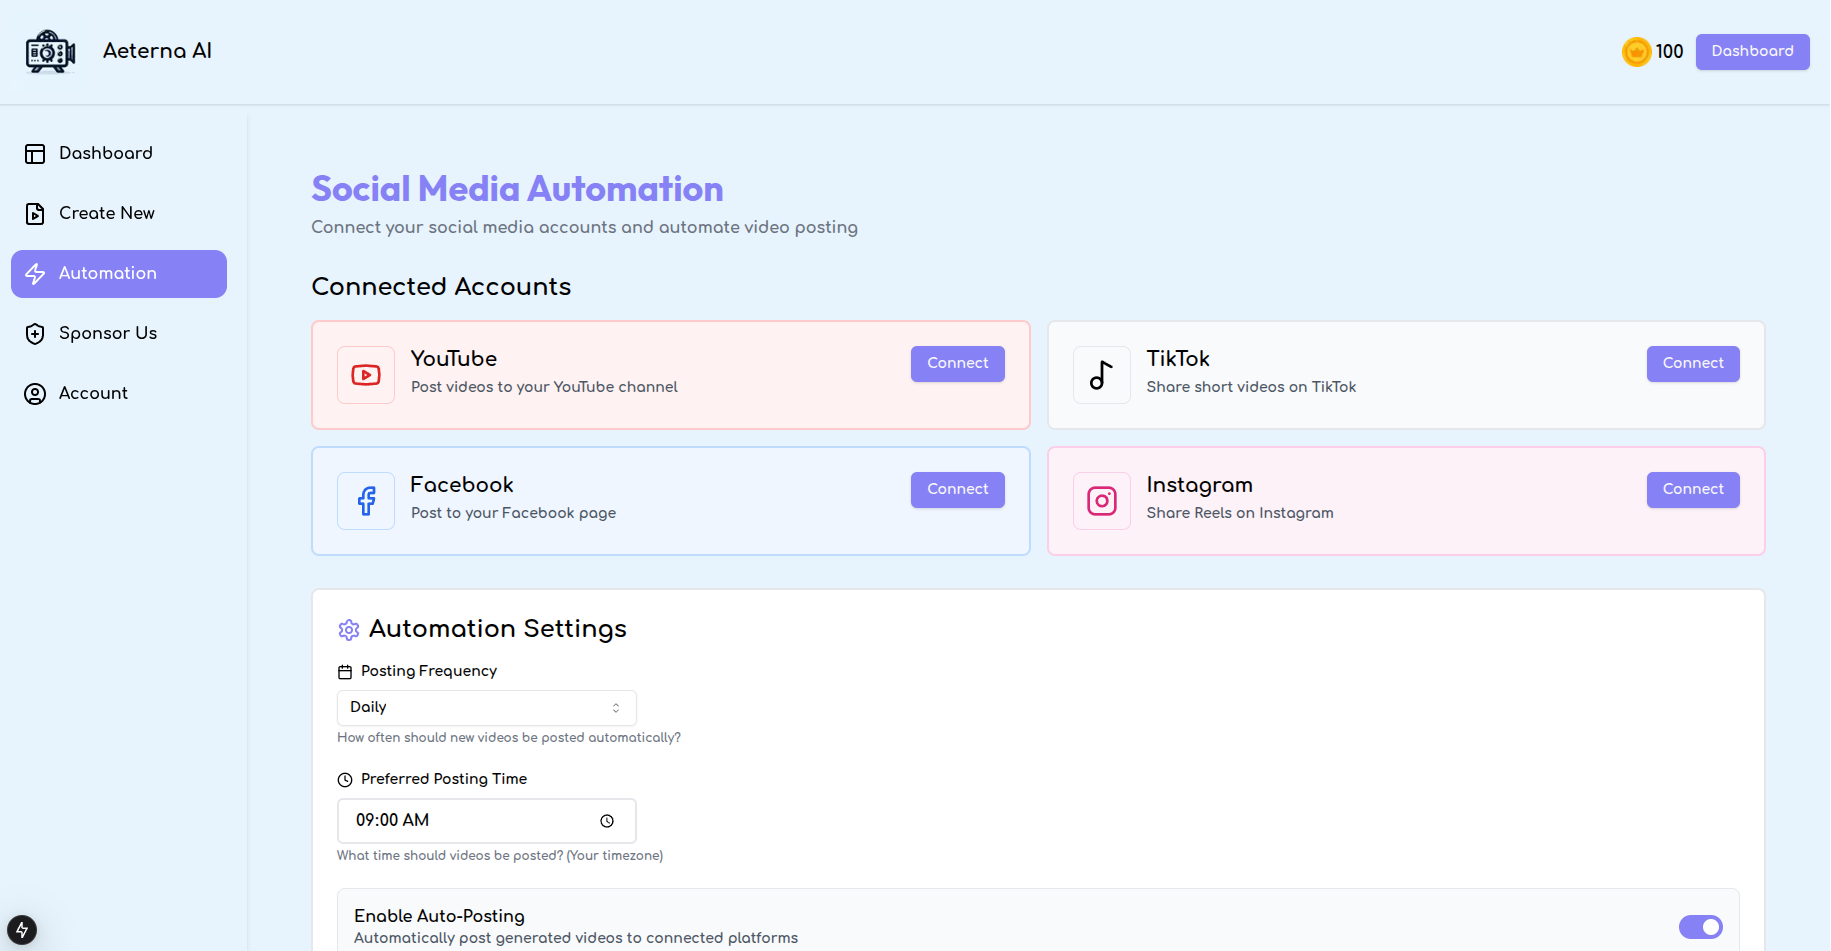
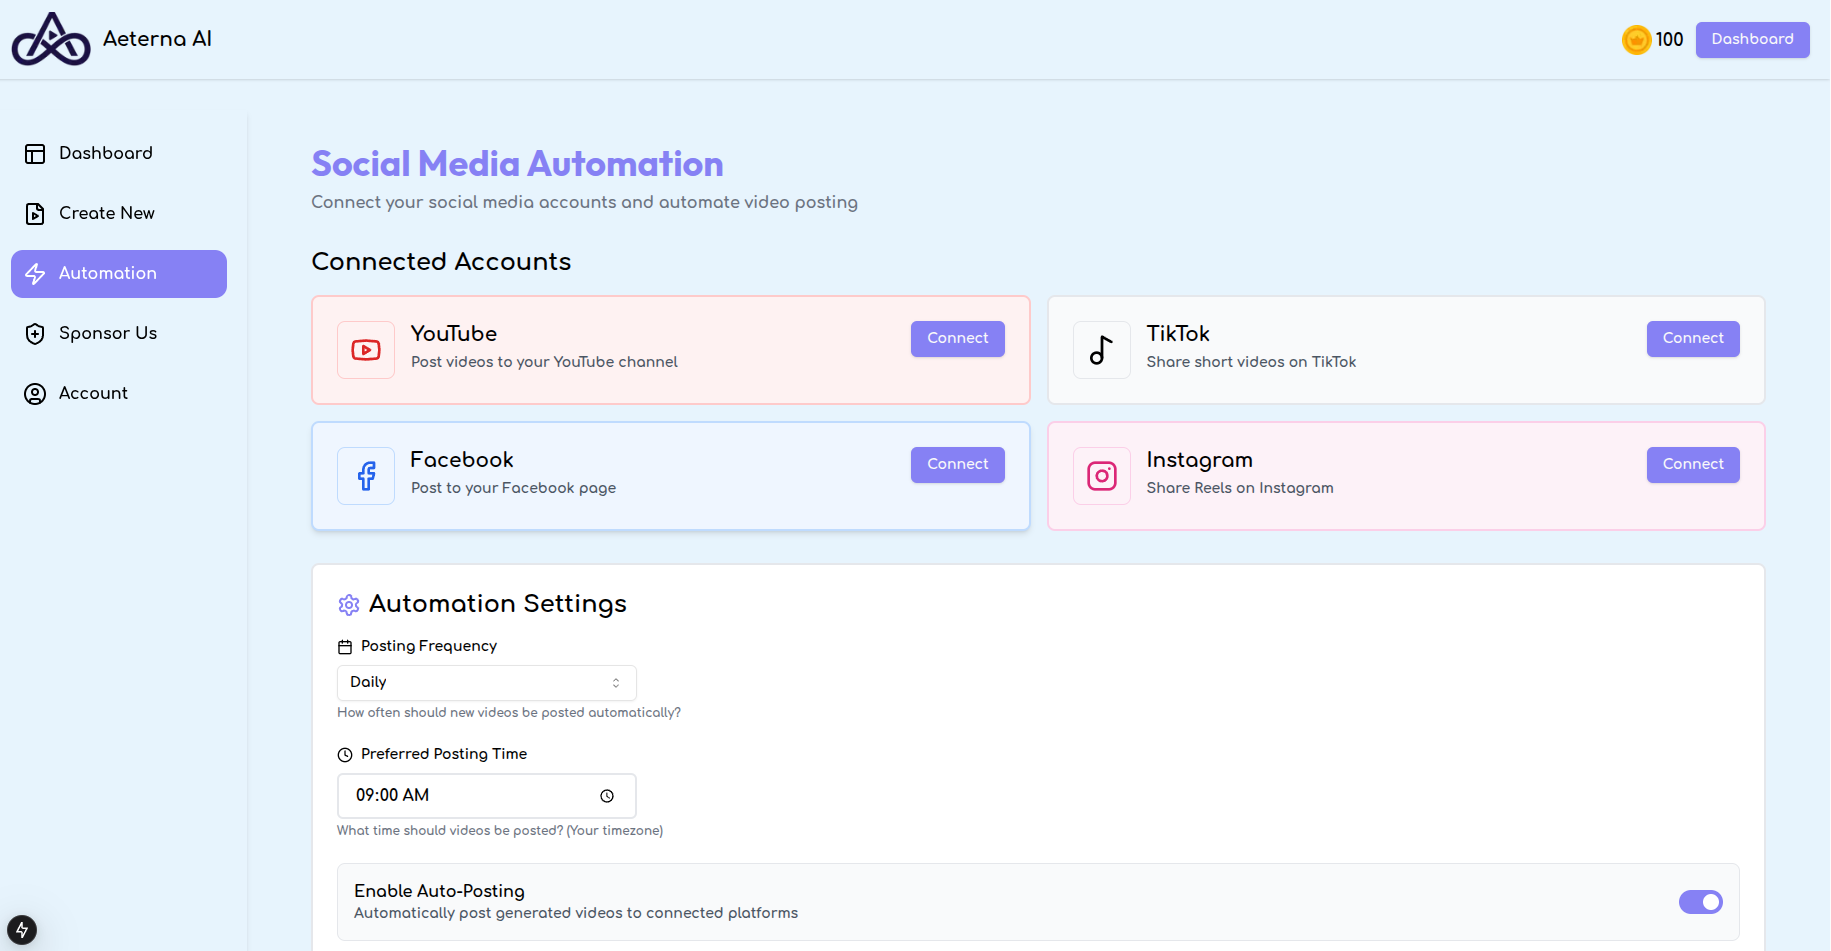
adding the new screenshots

diff --git a/frontend/app/dashboard/_components/Header.jsx b/frontend/app/dashboard/_components/Header.jsx
@@ -10,7 +10,7 @@ function Header() {
   return (
     <div className='p-3 px-5 flex items-center justify-between shadow' >
         <div className='flex gap-3 items-center'>
-            <Image src={"/logo.png"} width={80} height={80} alt="logo" />
+            <Image src={"/aeterna ai logo.png"} width={80} height={80} alt="logo" />
             <h2 className='font-bold text-xl' >Aeterna AI</h2>  
       </div>
 
